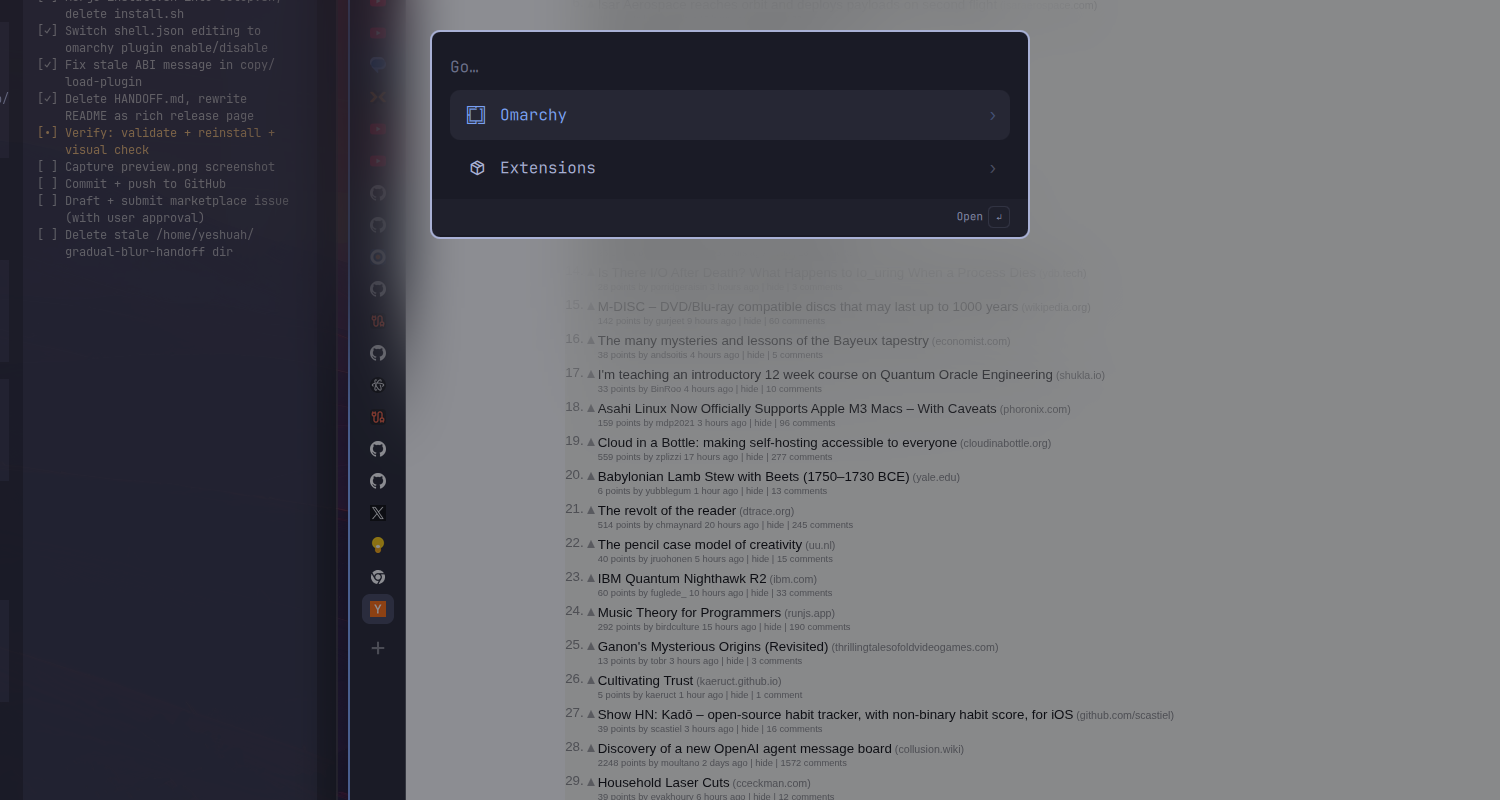
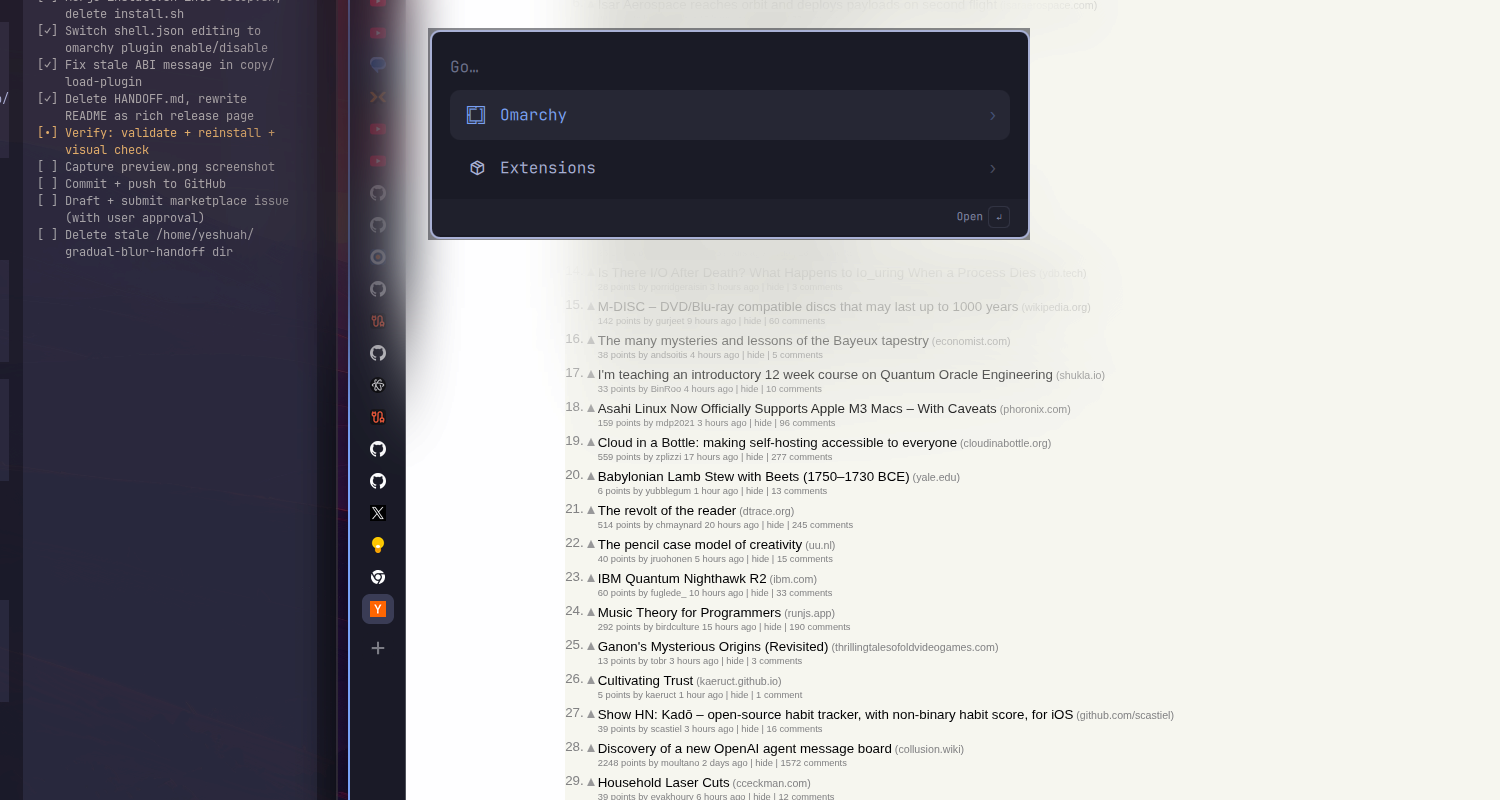
Undo menu scrim in preview, drop redundant qt6-declarative requirement

diff --git a/README.md b/README.md
@@ -42,8 +42,8 @@ smoothly away in every direction — like a halo of frosted light.
 ## Requirements
 
 - Omarchy Quattro with Hyprland and the Omarchy shell
-- `hyprland`, `quickshell`, `qt6-declarative`, `cmake`, `ninja`, `gcc`,
-  `pkgconf`, and `json-c`
+- `hyprland`, `quickshell`, `cmake`, `ninja`, `gcc`, `pkgconf`, and `json-c`
+  (`quickshell` already provides the Qt6 runtime and development files)
 - Hyprland development headers matching the running compositor
 
 Aura Blur includes an ABI-sensitive Hyprland plugin, so setup compiles it
